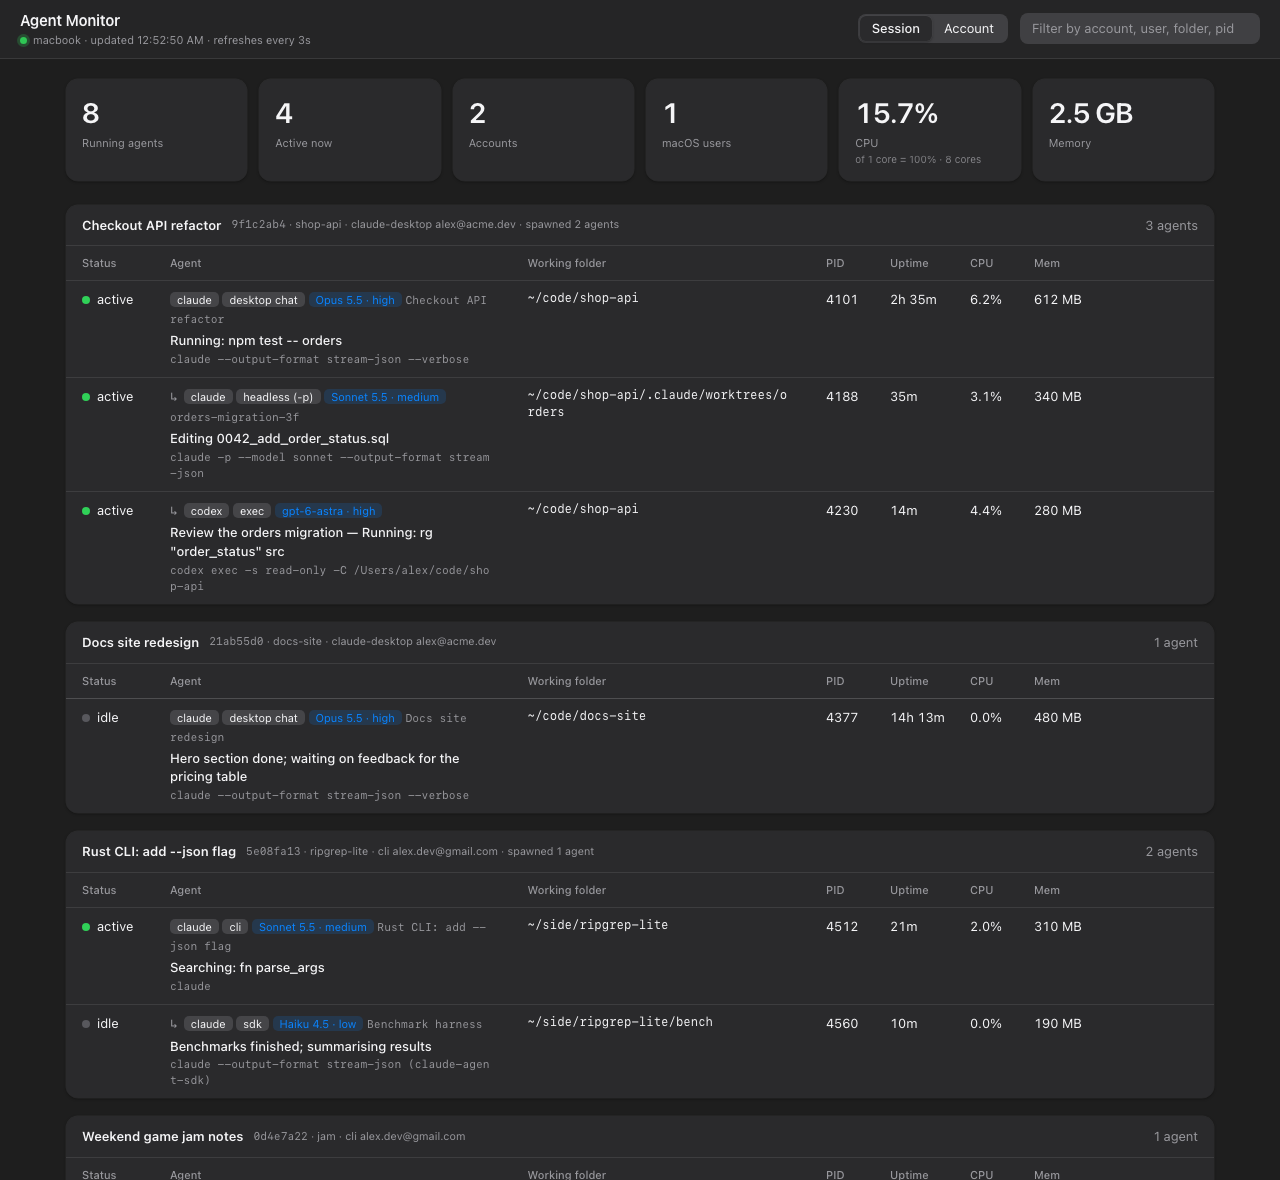
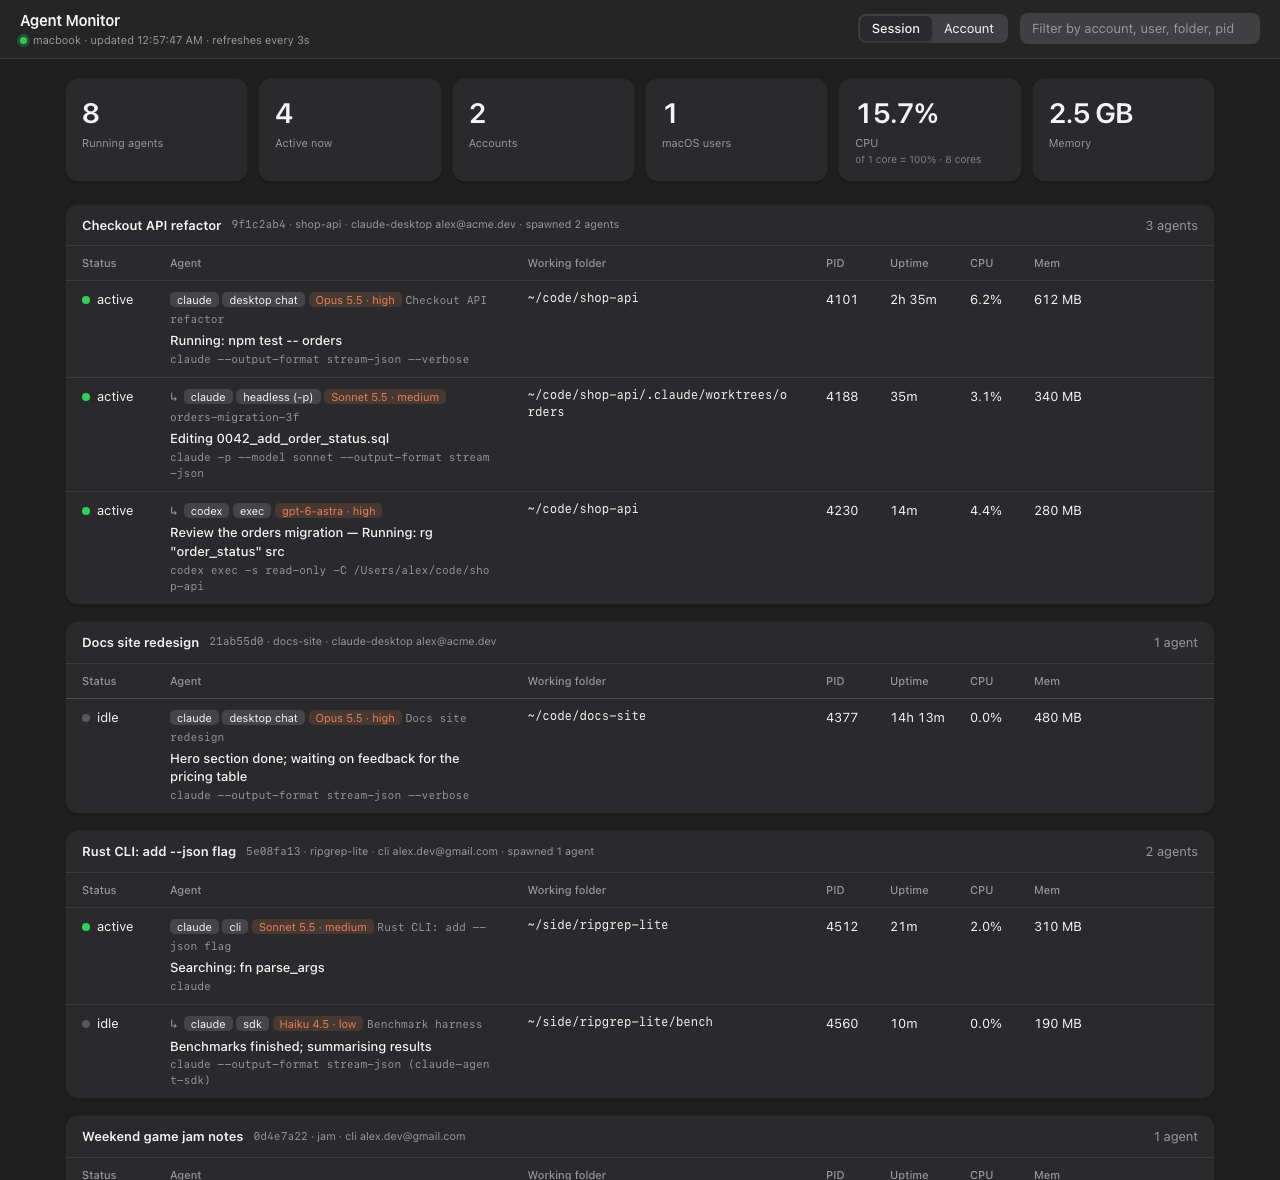
Use a warm terracotta accent instead of blue

diff --git a/index.html b/index.html
@@ -5,10 +5,10 @@
 <meta name="viewport" content="width=device-width, initial-scale=1">
 <title>Agent Monitor</title>
 <style>
-:root{color-scheme:light dark;--bg:#ececec;--card:#fff;--ink:#1d1d1f;--mute:#6e6e73;--line:rgba(0,0,0,.08);--ok:#30d158;--idle:#c7c7cc;--accent:#007aff;--chip:rgba(120,120,128,.14);--bar:rgba(246,246,246,.72);--hover:rgba(0,0,0,.03);--shadow:0 0 0 .5px rgba(0,0,0,.08),0 1px 3px rgba(0,0,0,.06)}
-@media(prefers-color-scheme:dark){:root{--bg:#1e1e1e;--card:#2a2a2c;--ink:#f5f5f7;--mute:#98989d;--line:rgba(255,255,255,.09);--idle:#58585d;--accent:#0a84ff;--chip:rgba(235,235,245,.14);--bar:rgba(40,40,42,.72);--hover:rgba(255,255,255,.04);--shadow:0 0 0 .5px rgba(255,255,255,.08),0 1px 3px rgba(0,0,0,.4)}}
-:root[data-theme=light]{color-scheme:light;--bg:#ececec;--card:#fff;--ink:#1d1d1f;--mute:#6e6e73;--line:rgba(0,0,0,.08);--ok:#30d158;--idle:#c7c7cc;--accent:#007aff;--chip:rgba(120,120,128,.14);--bar:rgba(246,246,246,.72);--hover:rgba(0,0,0,.03);--shadow:0 0 0 .5px rgba(0,0,0,.08),0 1px 3px rgba(0,0,0,.06)}
-:root[data-theme=dark]{color-scheme:dark;--bg:#1e1e1e;--card:#2a2a2c;--ink:#f5f5f7;--mute:#98989d;--line:rgba(255,255,255,.09);--idle:#58585d;--accent:#0a84ff;--chip:rgba(235,235,245,.14);--bar:rgba(40,40,42,.72);--hover:rgba(255,255,255,.04);--shadow:0 0 0 .5px rgba(255,255,255,.08),0 1px 3px rgba(0,0,0,.4)}
+:root{color-scheme:light dark;--bg:#ececec;--card:#fff;--ink:#1d1d1f;--mute:#6e6e73;--line:rgba(0,0,0,.08);--ok:#30d158;--idle:#c7c7cc;--accent:#c4552d;--chip:rgba(120,120,128,.14);--bar:rgba(246,246,246,.72);--hover:rgba(0,0,0,.03);--shadow:0 0 0 .5px rgba(0,0,0,.08),0 1px 3px rgba(0,0,0,.06)}
+@media(prefers-color-scheme:dark){:root{--bg:#1e1e1e;--card:#2a2a2c;--ink:#f5f5f7;--mute:#98989d;--line:rgba(255,255,255,.09);--idle:#58585d;--accent:#e8805a;--chip:rgba(235,235,245,.14);--bar:rgba(40,40,42,.72);--hover:rgba(255,255,255,.04);--shadow:0 0 0 .5px rgba(255,255,255,.08),0 1px 3px rgba(0,0,0,.4)}}
+:root[data-theme=light]{color-scheme:light;--bg:#ececec;--card:#fff;--ink:#1d1d1f;--mute:#6e6e73;--line:rgba(0,0,0,.08);--ok:#30d158;--idle:#c7c7cc;--accent:#c4552d;--chip:rgba(120,120,128,.14);--bar:rgba(246,246,246,.72);--hover:rgba(0,0,0,.03);--shadow:0 0 0 .5px rgba(0,0,0,.08),0 1px 3px rgba(0,0,0,.06)}
+:root[data-theme=dark]{color-scheme:dark;--bg:#1e1e1e;--card:#2a2a2c;--ink:#f5f5f7;--mute:#98989d;--line:rgba(255,255,255,.09);--idle:#58585d;--accent:#e8805a;--chip:rgba(235,235,245,.14);--bar:rgba(40,40,42,.72);--hover:rgba(255,255,255,.04);--shadow:0 0 0 .5px rgba(255,255,255,.08),0 1px 3px rgba(0,0,0,.4)}
 *{box-sizing:border-box}
 body{margin:0;background:var(--bg);color:var(--ink);font:13px/1.45 -apple-system,BlinkMacSystemFont,"SF Pro Text","Helvetica Neue",sans-serif;-webkit-font-smoothing:antialiased}
 header{position:sticky;top:0;z-index:5;display:flex;flex-wrap:wrap;gap:12px;align-items:center;justify-content:space-between;padding:10px 20px;background:var(--bar);backdrop-filter:saturate(180%) blur(24px);-webkit-backdrop-filter:saturate(180%) blur(24px);border-bottom:.5px solid var(--line)}
